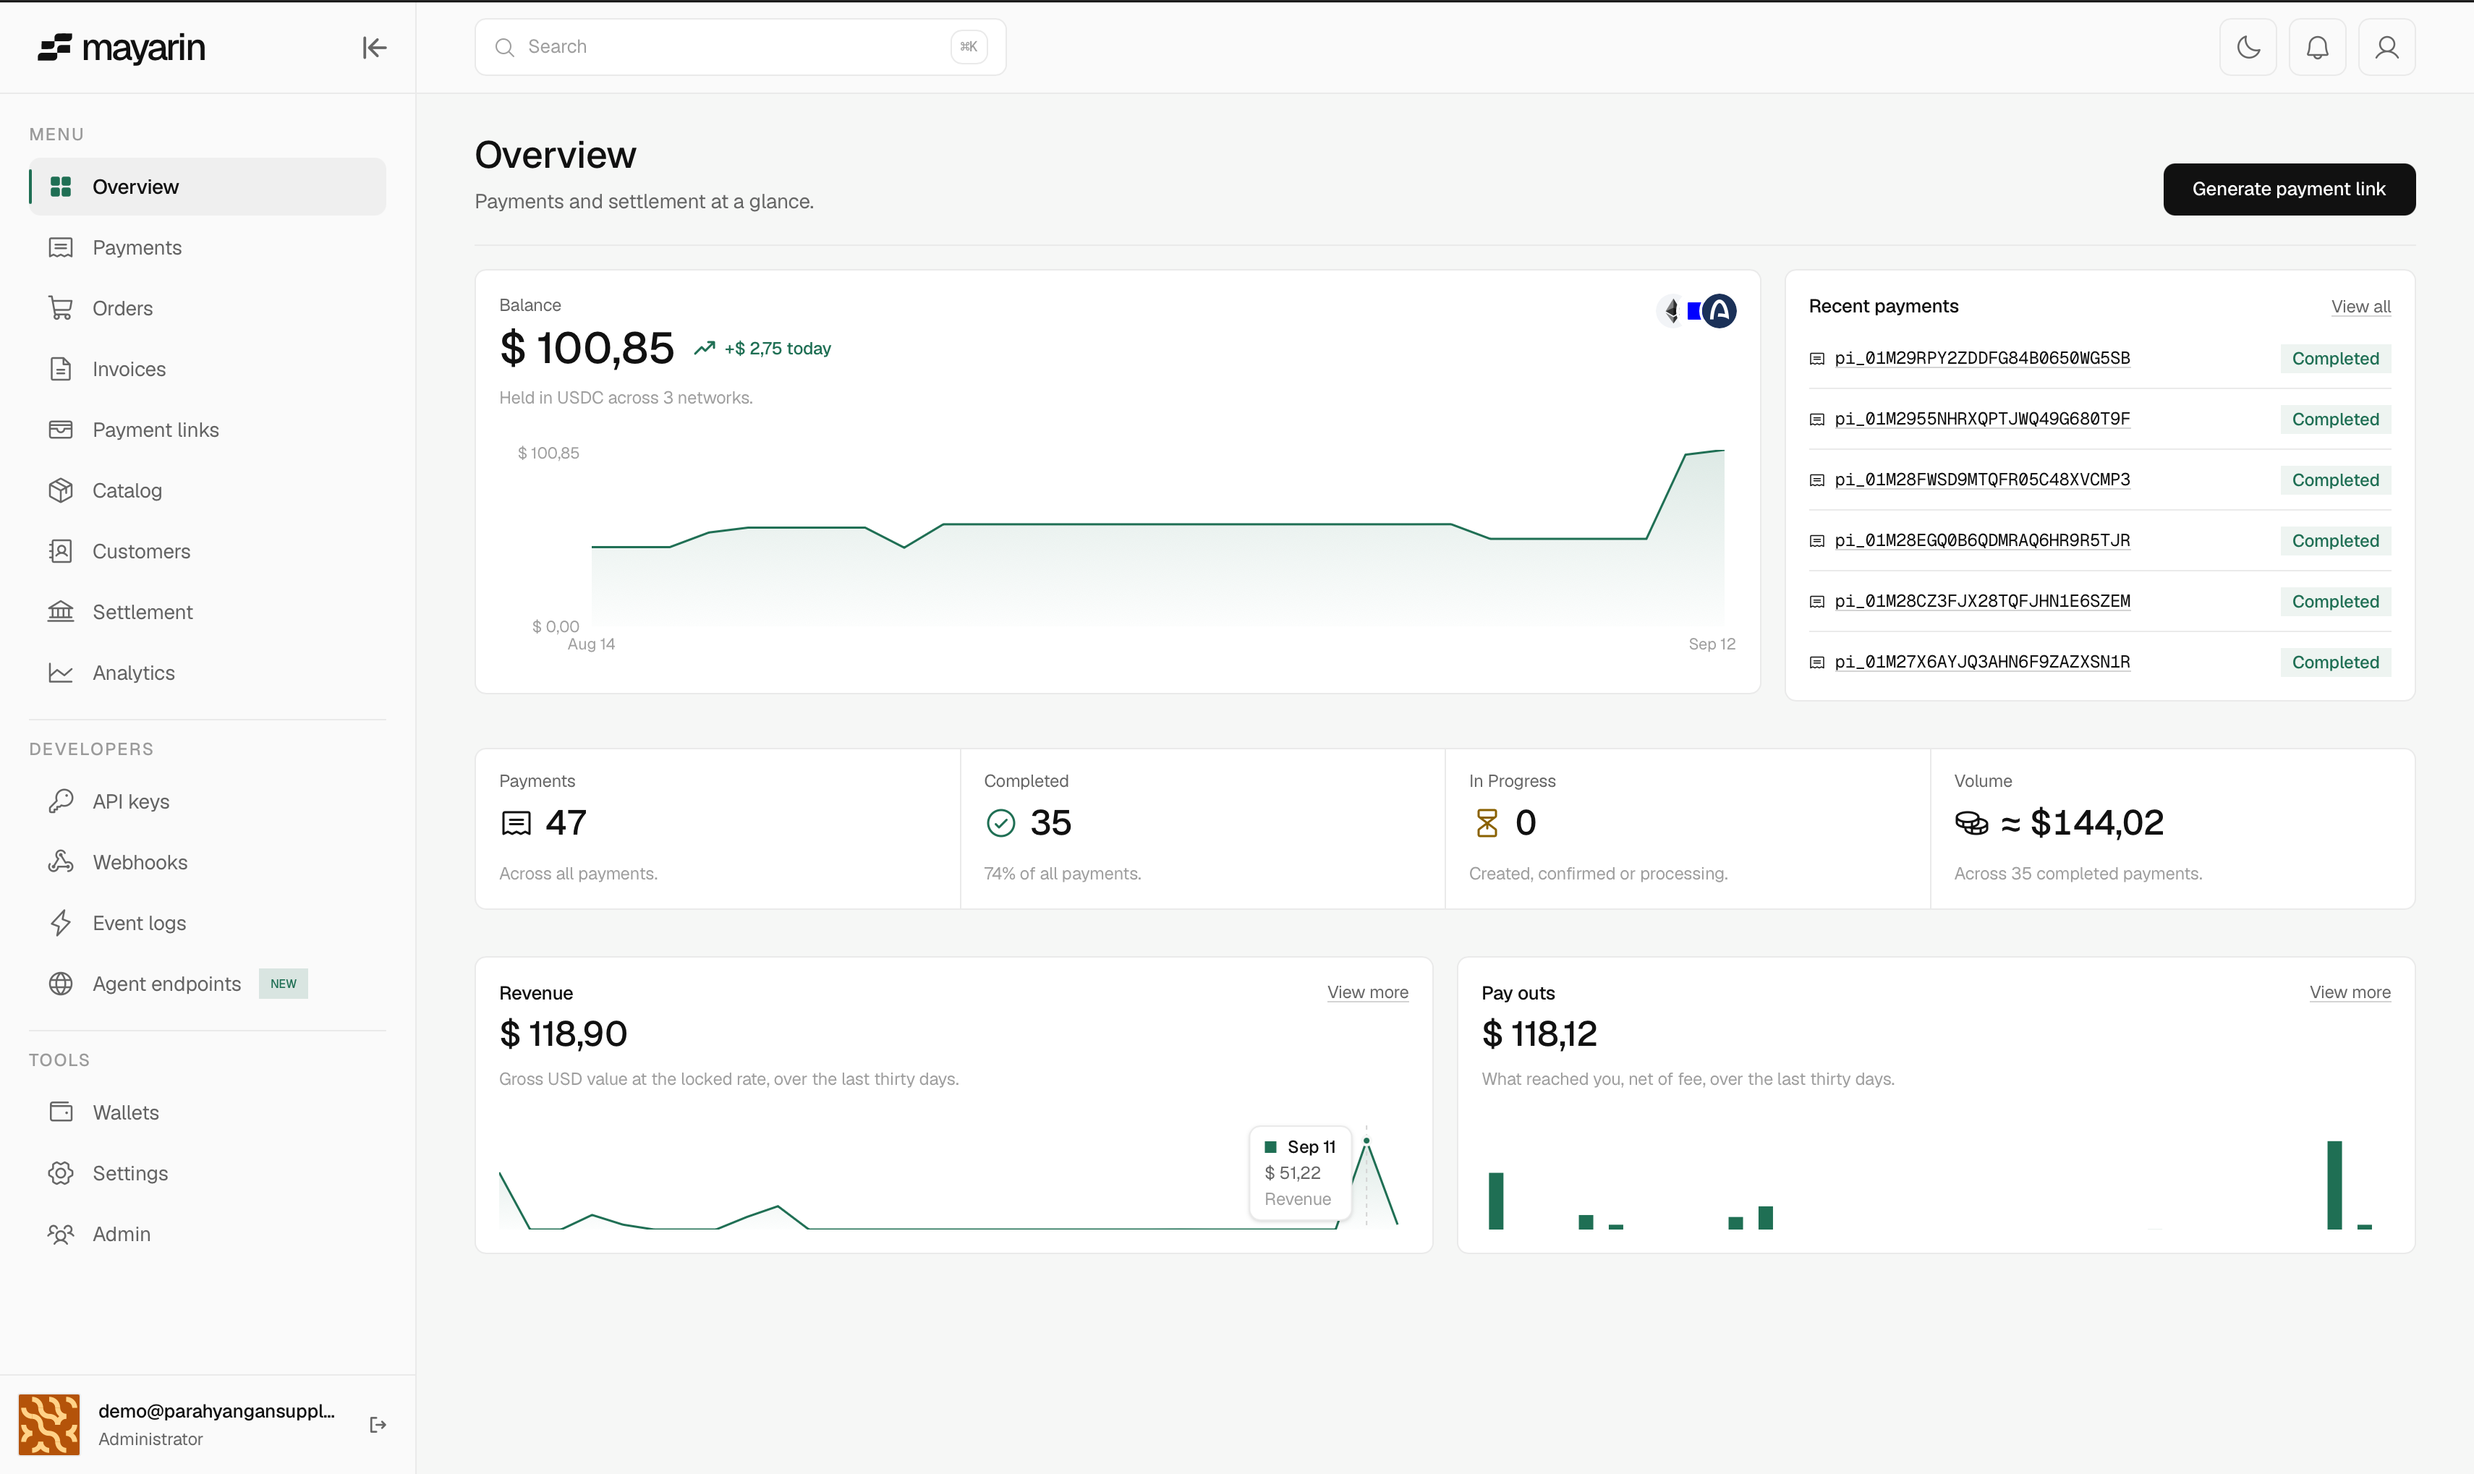
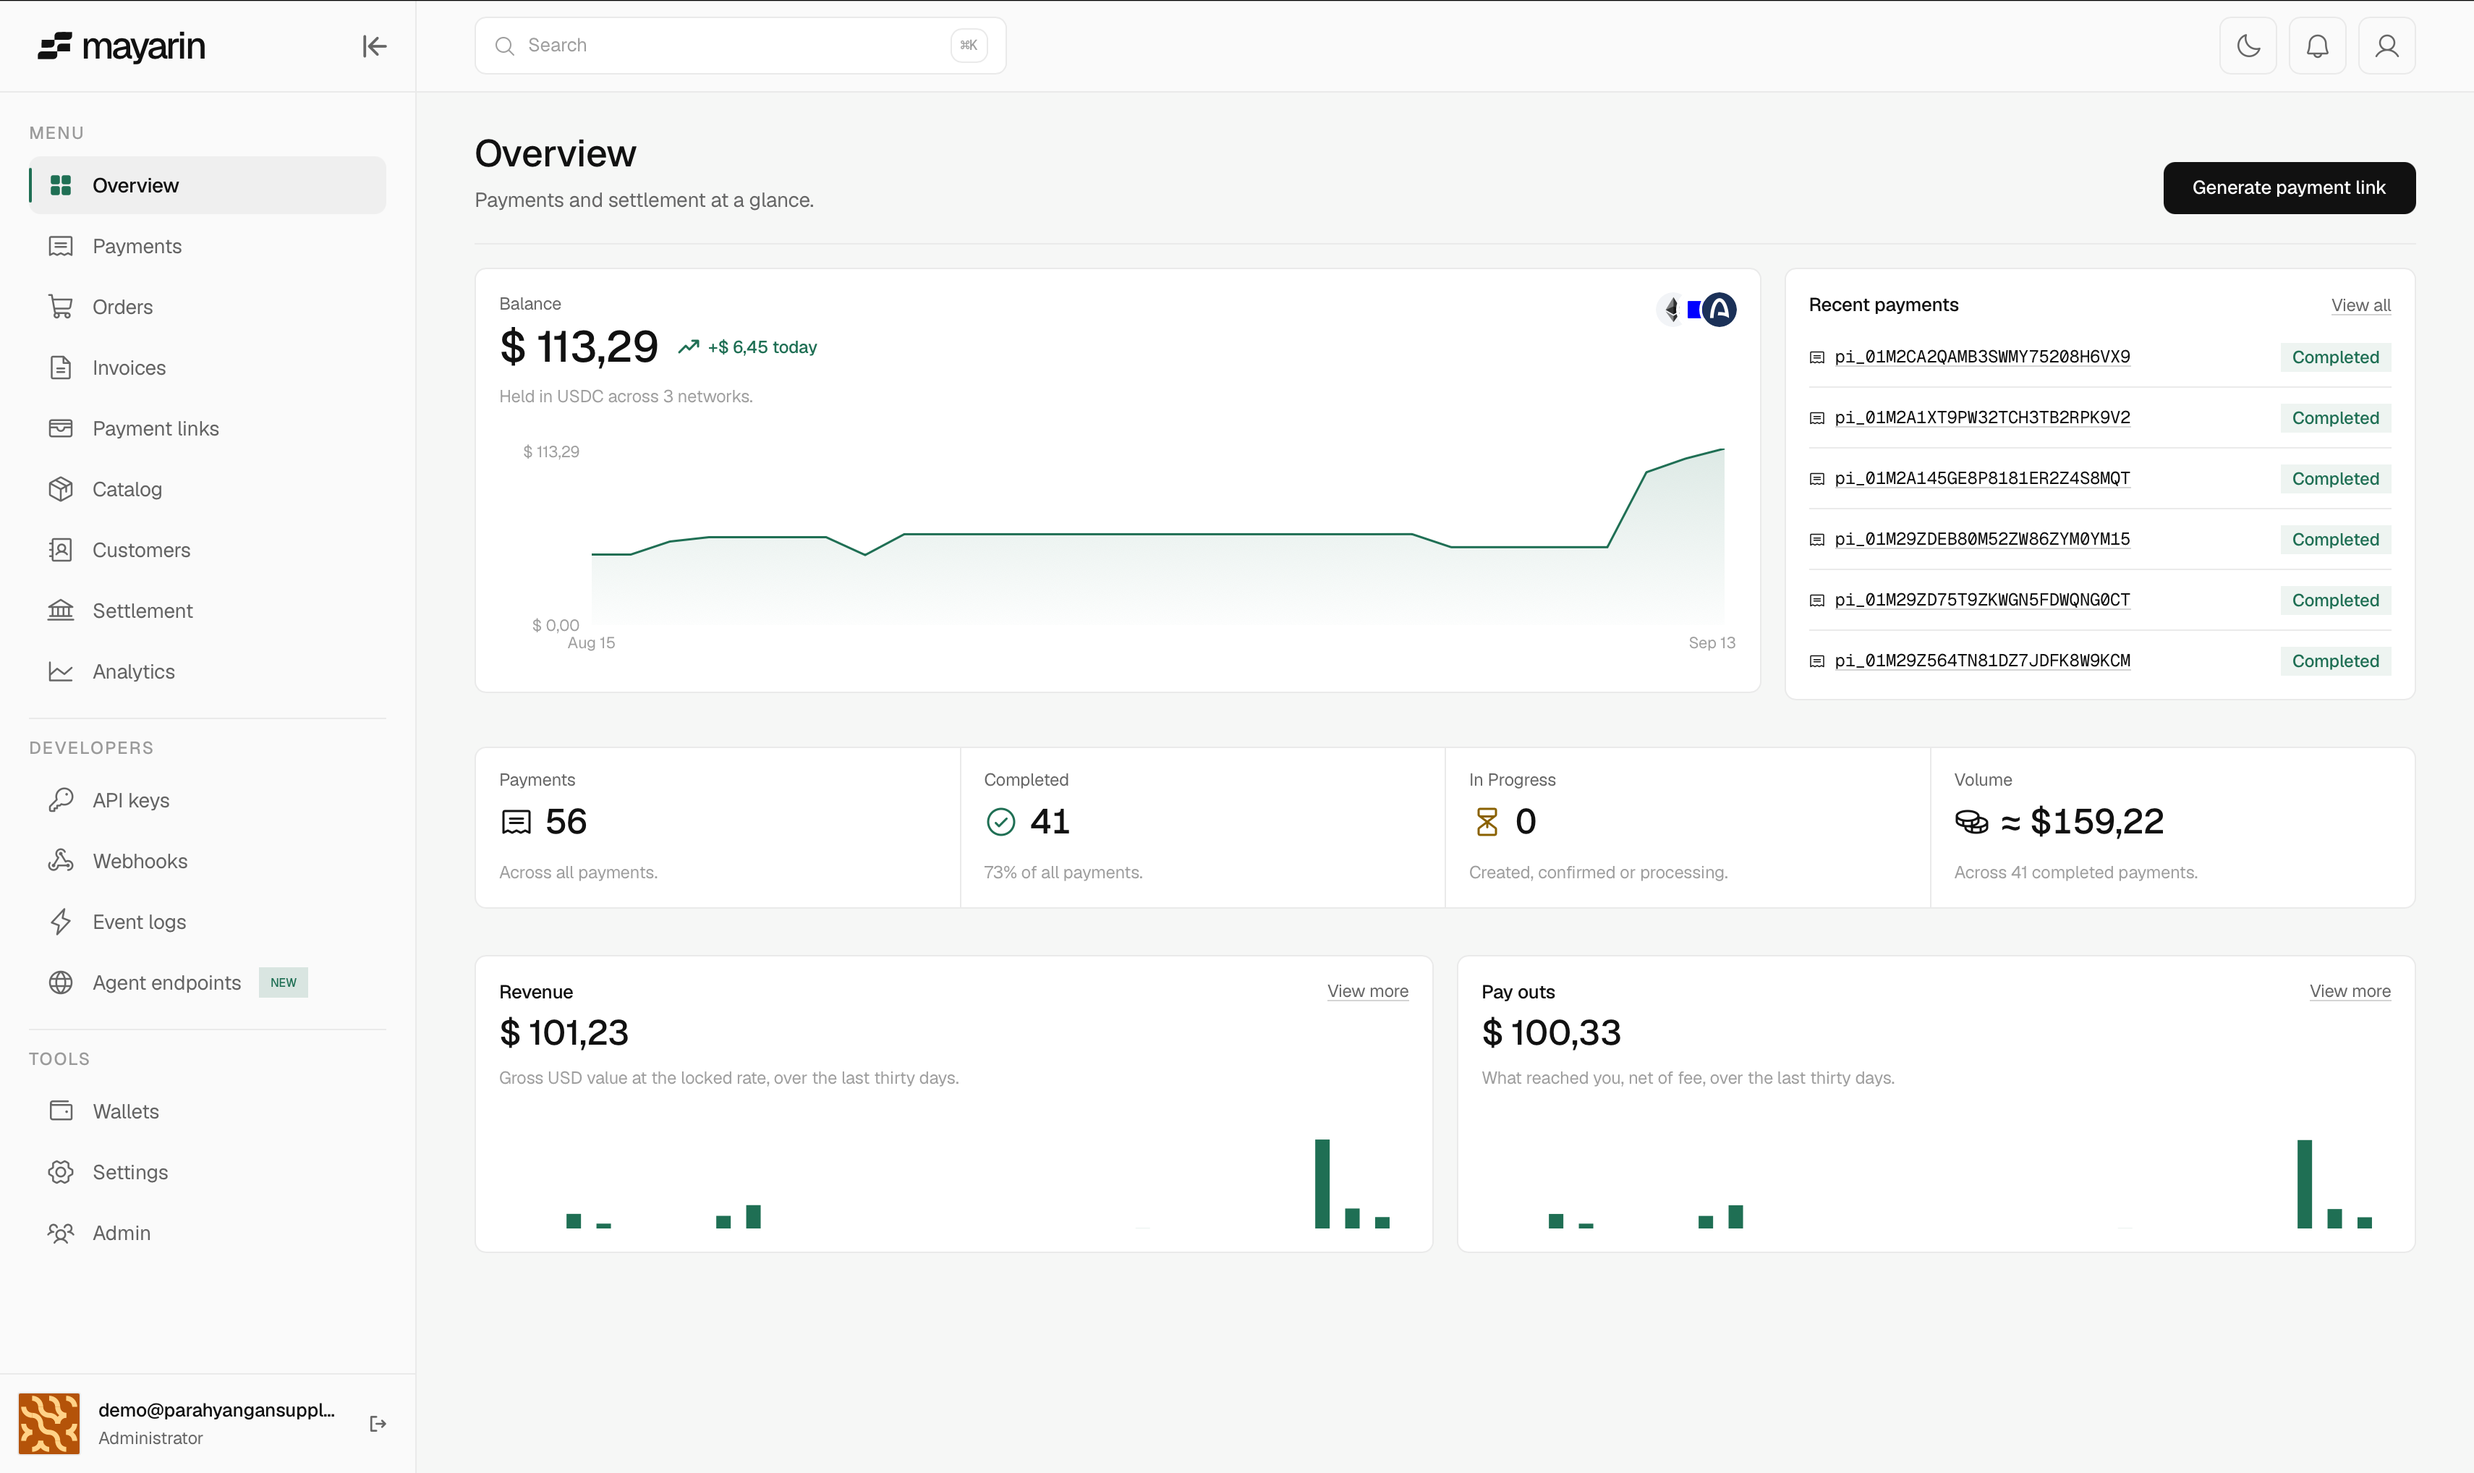
docs(readme): preview the overview dashboard

diff --git a/README.md b/README.md
@@ -4,7 +4,7 @@
 
 ### The merchant names one price in their own currency. The payer brings whatever they hold. Both numbers are exact.
 
-<a href="https://mayarin.xyz"><img src="./apps/landing/public/images/product/mayarin-analytics.png" alt="Mayarin merchant dashboard — analytics overview" /></a>
+<a href="https://mayarin.xyz"><img src="./apps/landing/public/images/product/mayarin-overview.png" alt="Mayarin merchant dashboard — overview" /></a>
 
 [![Testnet](https://img.shields.io/badge/Live%20on-Testnet-16A34A?style=for-the-badge)](https://api-testnet.mayarin.xyz)
 [![Base Sepolia](https://img.shields.io/badge/Base%20Sepolia-PaymentRouter-0052FF?style=for-the-badge)](https://sepolia.basescan.org/address/0xee7c5b5a9eeaf667a6efb217a8a77534c873f7a9)
